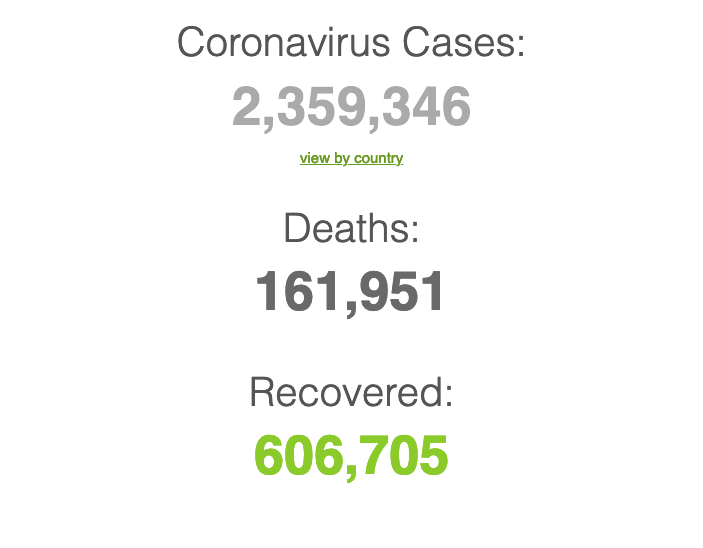
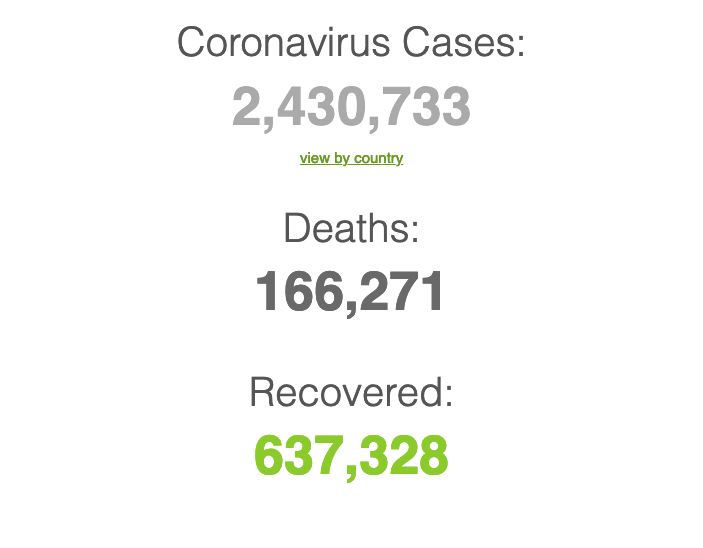
4월 21일

diff --git a/data/new_content[4월21일].html b/data/new_content[4월21일].html
@@ -1,0 +1,77 @@
+<p>
+  전세계 코로나 확진자 수 현황(<span id="kr0">4월21일</span> 00시 기준)<br/>
+  실시간으로 변하는 한국과 전세계의 코로나 바이러스 확진자 수를 쉽게 확인할 수
+  있으시도록 00시 기준으로 매일 업데이트를 할 예정입니다.
+</p>
+<p style="text-align: right;">
+  (Last updated: <span id="0">April 20</span>, 2020, 15:00 GMT(한국시간
+  <span id="kr1">4월21일</span> 00시 00분)
+</p>
+<figure class="imageblock alignCenter">
+<span class="0" data-lightbox="lightbox" data-url="http://cfile6.uf.tistory.com/image/993C12365E9DBACE1E4C99">
+<img class="0" height="403px" src="http://cfile6.uf.tistory.com/image/993C12365E9DBACE1E4C99"/>
+</span>
+</figure>
+<br/>
+<br/>
+<br/>
+<b>
+<span id="kr2">4월21일</span>
+  00시 기준, 전일대비 코로나-19 바이러스 확진자의 수는 약
+  <span id="tn">71387</span>명이 증가한 <span id="t">2,430,733 </span>명이 되었습니다.</b>
+<br/>
+<br/>
+<br/>
+<figure class="imageblock alignCenter">
+<span class="1" data-lightbox="lightbox" data-url="http://cfile6.uf.tistory.com/image/99492C4B5E9DBACF044B87">
+<img class="1" height="403px" src="http://cfile6.uf.tistory.com/image/99492C4B5E9DBACF044B87"/>
+</span>
+</figure>
+<br/>
+<br/>
+<br/>
+<b><p>[확진자 수 기준 상위 20개국, 00시 기준]</p></b>
+<figure class="imageblock alignCenter">
+<span class="2" data-lightbox="lightbox" data-url="http://cfile1.uf.tistory.com/image/9956E6445E9DBACF27C666">
+<img class="2" height="403px" src="http://cfile1.uf.tistory.com/image/9956E6445E9DBACF27C666"/>
+</span>
+</figure>
+<p>
+  위의 그래프의 New는 한국 아침 9시 기준으로 변경되므로, 한국시간대로 전일과의
+  비교로 설명해 드리고 있습니다.
+  <br/>
+<br/>
+<b>
+<u>
+      한국의 경우, <span id="kr3">4월21일</span> 00시 기준 전일대비
+      <span id="kn">13</span>명이 증가하여 총 코로나 바이러스 확진자 수가
+      <span id="k">10,674</span>명이 되었습니다.
+    </u>
+<br/>
+<br/>
+<span id="2">미국</span>의 경우, 확진자의 수가 전일대비
+    <span id="2n">27038</span>명가량 증가하였습니다.
+    <br/>
+<br/>
+<span id="3">스페인</span>의 경우, 전일대비 확진자의 수가
+    <span id="3n">4266</span>명가량 증가하였습니다.
+    <br/>
+<br/>
+<span id="4">이탈리아</span>의 경우, 확진자의 수가 전일대비
+    <span id="4n">3047</span>명가량 증가하였습니다.
+    <br/>
+<br/>
+<span id="5">프랑스</span>의 경우, 전일대비 확진자의 수가
+    <span id="5n">1101</span>명이 증가하였습니다.
+    <br/>
+<br/>
+<span id="6">독일</span>의 경우, 전일대비 확진자의 수가
+    <span id="6n">1395</span>명가량 증가하였습니다.
+    <br/>
+<br/>
+    전일(<span id="y">4월20일</span> 00시)의 확진자 수 현황을 확인하시고 싶으시다면
+    아래의 링크를 확인해 주세요.
+    <br/>
+<a href="https://digitalnomad-lee.tistory.com/170" id="p">https://digitalnomad-lee.tistory.com/170</a>
+</b>
+</p>
